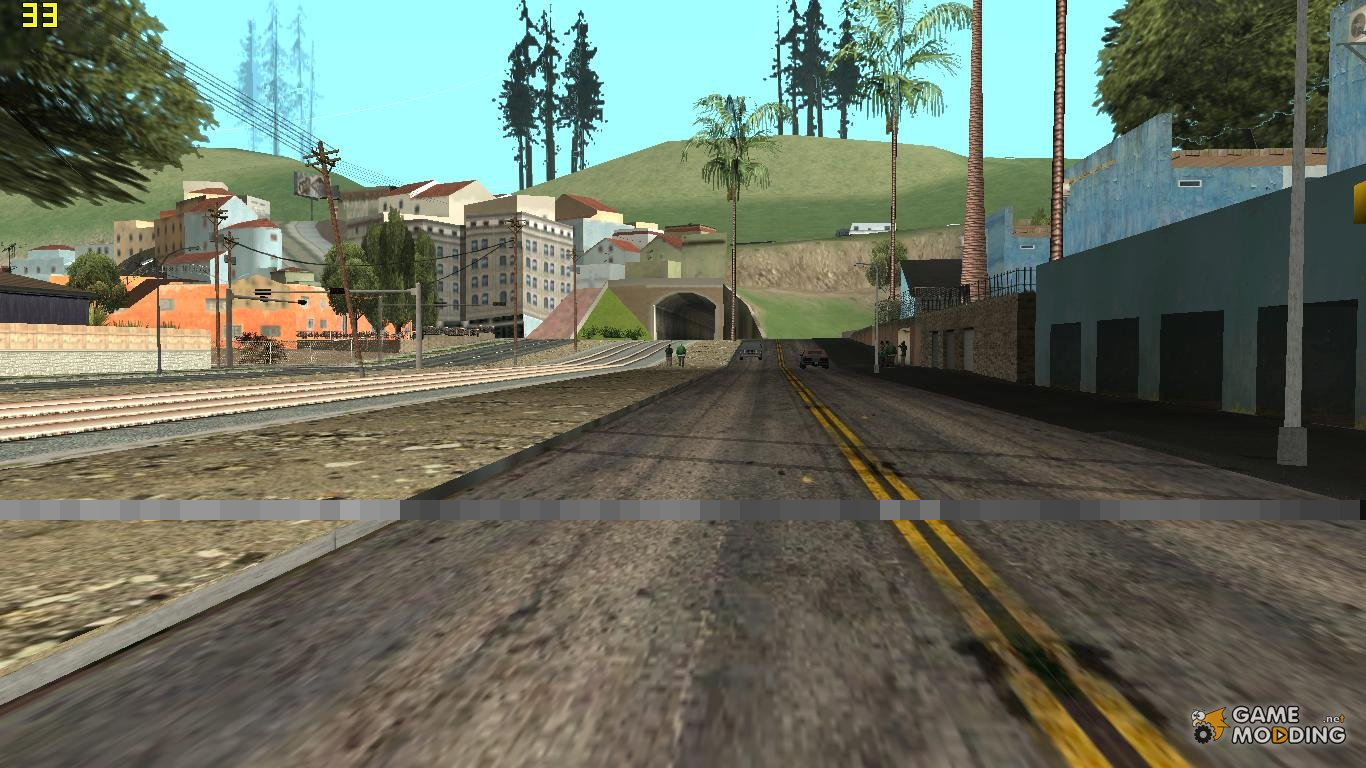
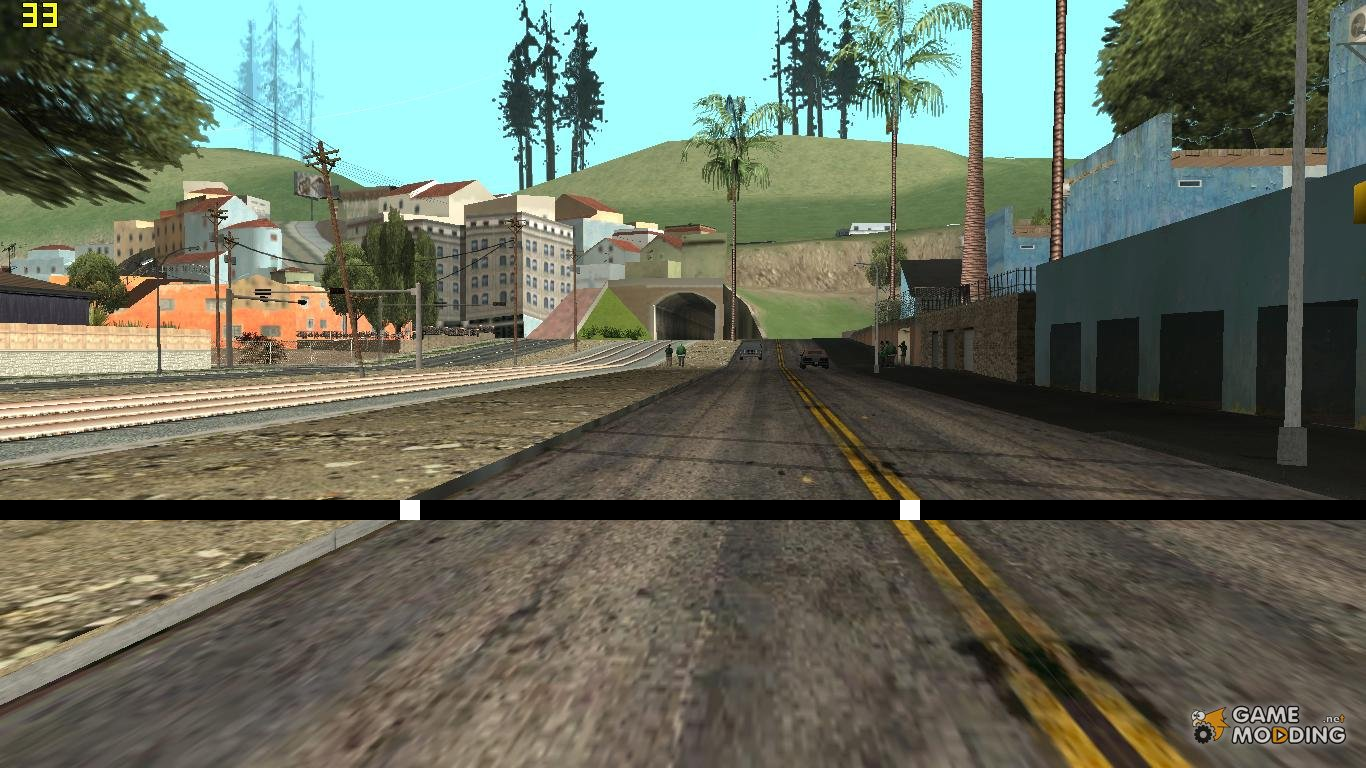
krok 2

Changed region(s): [[0.0, 0.625, 1.0, 0.6875]]

diff --git a/cej.py b/cej.py
@@ -2,27 +2,48 @@ import sys
 import numpy as Np
 from PIL import Image
 
+
 strip_off = 500
 block_w = 20
 block_h = 20
+edge_thres = 200
+
+
+def norm255(array):
+	arr_max = 0
+	for i in range(len(array)):
+		arr_max = max(array[i], arr_max)
+	for i in range(len(array)):
+		array[i] *= 255 / arr_max
+
+def thres255(array, value):
+	for i in range(len(array)):
+		if array[i] > value:
+			array[i] = 255
+		else:
+			array[i] = 0
+
 
 for f_path in sys.argv[1:]:
 	f_name = f_path.split('/')[-1]
 	print(f_path)
 	image = Image.open(f_path)
 	w, h = image.size
-	blocks = Np.zeros(w // block_w + 1, int)
+	blocks = Np.zeros(w // block_w + 1, float)
+	edges = Np.zeros(len(blocks), float)
 	for i in range(strip_off, strip_off + block_h):
 		for j in range(0, w):
 			px = image.getpixel((j, i))
 			blocks[j // block_w] += max(px[0], max(px[1], px[2]))
-	print(blocks)
 	for i in range(len(blocks)):
-		blocks[i] //= block_w * block_h
-	print(blocks)
+		blocks[i] /= block_w * block_h
+	for i in range(1, len(blocks) - 1):
+		edges[i] = blocks[i-1] - blocks[i] * 2 + blocks[i+1]
+	norm255(edges)
+	thres255(edges, edge_thres)
 	for i in range(strip_off, strip_off + block_h):
 		for j in range(0, w):
-			val = blocks[j // block_w]
+			val = int(edges[j // block_w])
 			image.putpixel((j, i), (val, val, val))
 	image.save("out/" + f_name)
 
